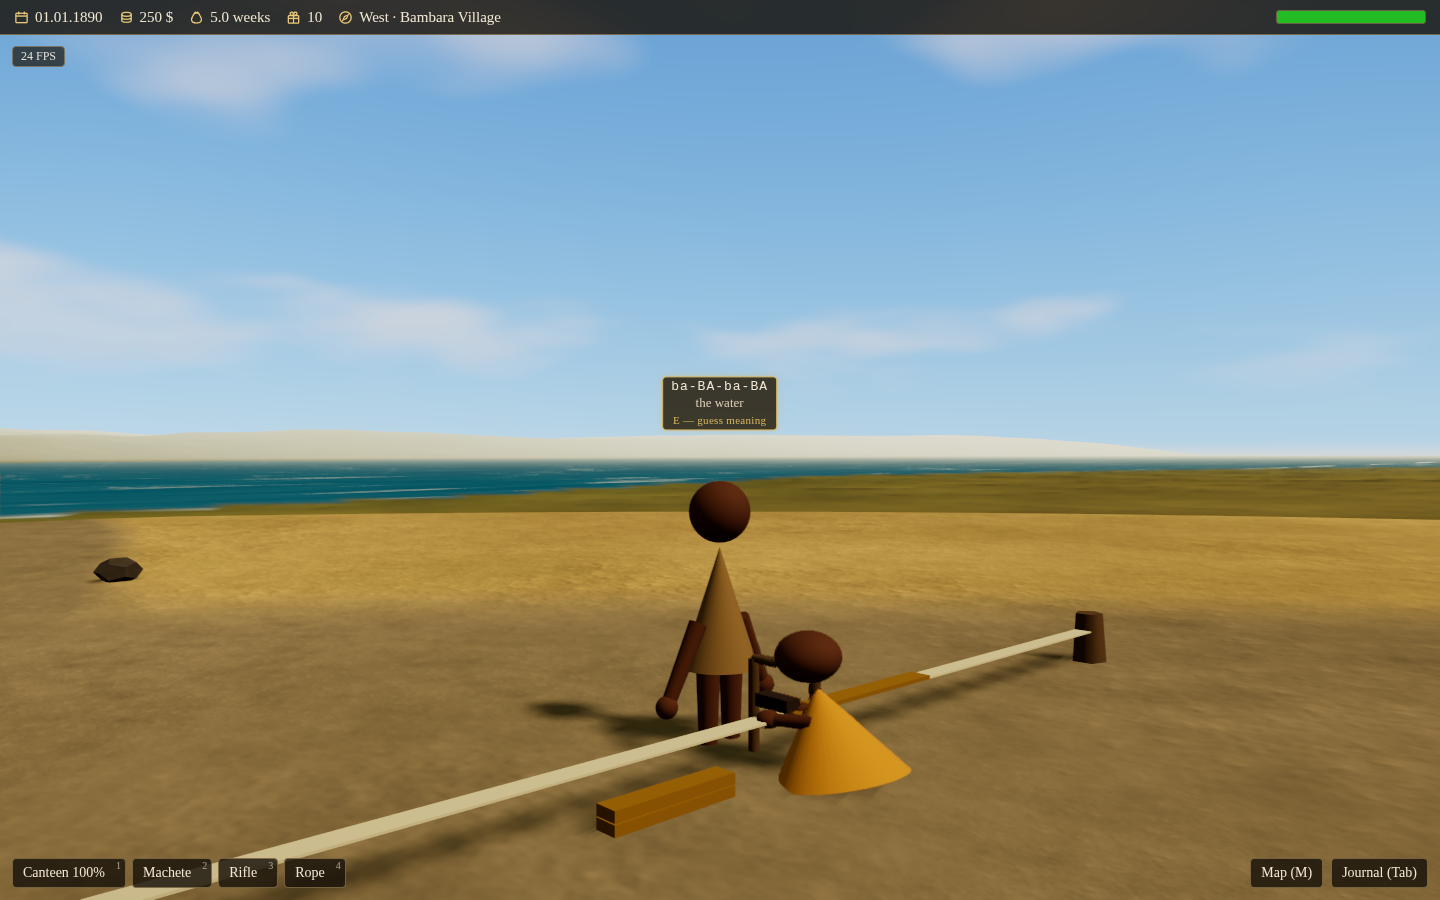
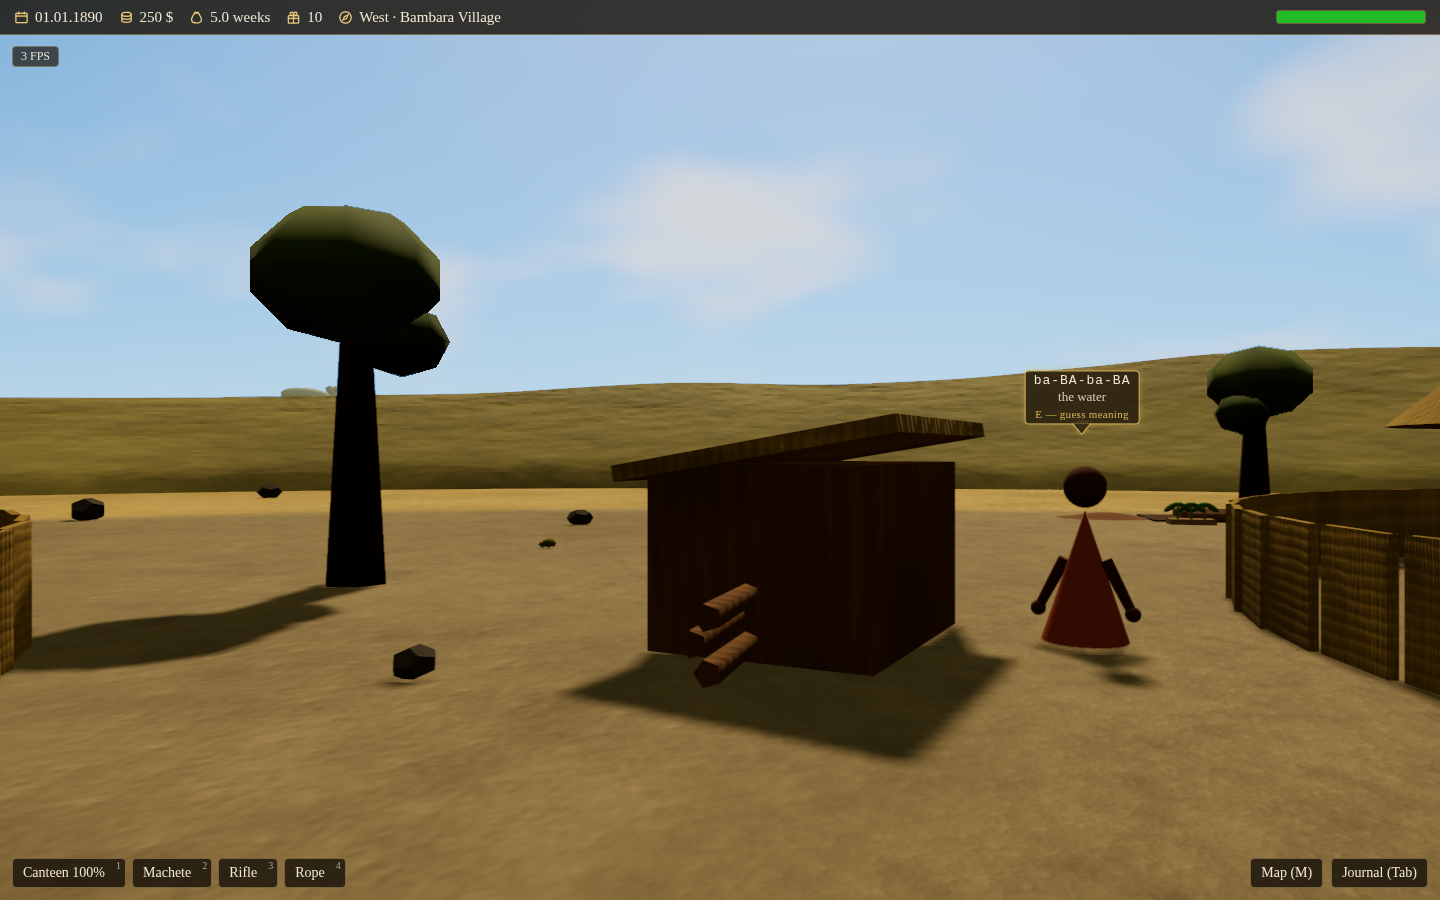
Stage the two-speaker label picture reliably and enlarge the tail
The speech-owner picture now speaks with a tiny targeting reach so
neither note is the guess target from a few metres, probes each figure
at several heights, and refuses a shutter whose tails are off screen.
The dev speak hook takes that optional reach. The tail grows to 18x11 px
so it reads at village distances. Adds the two-speaker picture and the
re-shot speech-hypothesis and speech-guess pictures.

diff --git a/src/scenes/place/SpeechLabels.tsx b/src/scenes/place/SpeechLabels.tsx
@@ -145,11 +145,13 @@ export function SpeechLabels() {
     if (!import.meta.env.DEV) return
     const w = window as unknown as Record<string, unknown>
     w.__speech = {
-      speak: (speakerId: string, atoms: Phrase, anchorName?: string, seconds?: number) => {
+      // `reach` narrows who may TARGET the note, so a picture can stage two
+      // notes near the player with neither being the guess target.
+      speak: (speakerId: string, atoms: Phrase, anchorName?: string, seconds?: number, reach?: number) => {
         const anchor = scene.getObjectByName(anchorName ?? speakerId) ??
           (anchorName === undefined ? speechAnchor(speakerId) : null)
         if (!anchor || scene.getObjectById(anchor.id) !== anchor) return false
-        speakOverhead(speakerId, atoms, anchor, { seconds })
+        speakOverhead(speakerId, atoms, anchor, { seconds, reach })
         return true
       },
       anchorScreen: (speakerId: string) => {

diff --git a/src/ui/SpeechLabelCard.tsx b/src/ui/SpeechLabelCard.tsx
@@ -78,8 +78,8 @@ export function SpeechLabelCard({
             debug concept view is not something to write a guess about. */}
         {targeted && !conceptLabels && <div className="speech-invite">{t.speechGuess.invite}</div>}
       </div>
-      <svg className="speech-tail" width="14" height="9" viewBox="0 0 14 9" aria-hidden="true">
-        <path d="M0 0 L7 9 L14 0" />
+      <svg className="speech-tail" width="18" height="11" viewBox="0 0 18 11" aria-hidden="true">
+        <path d="M0 0 L9 11 L18 0" />
       </svg>
     </div>
   )
